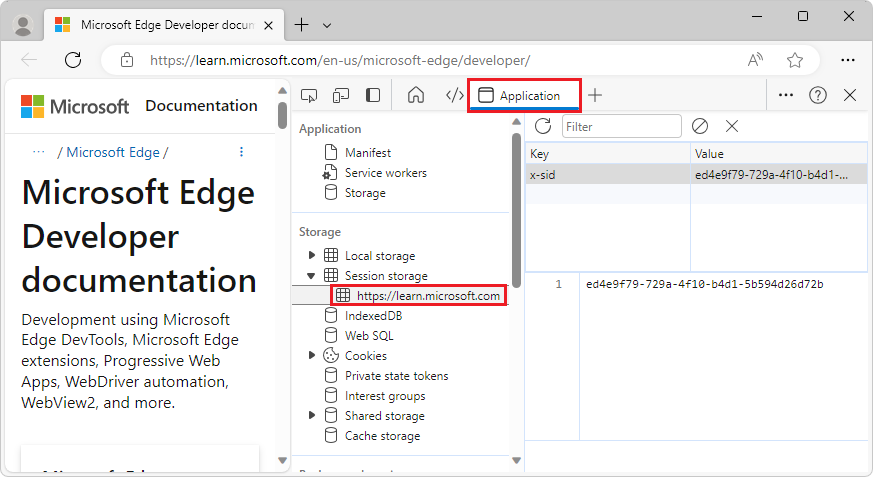
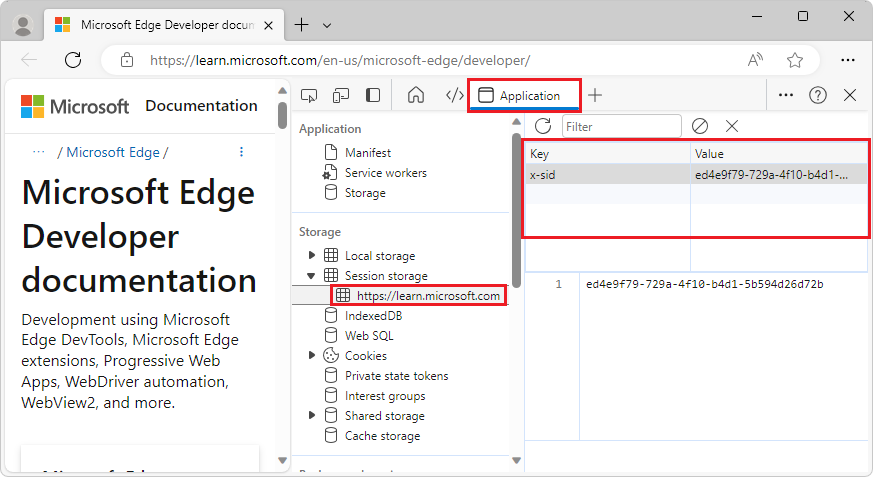
Add red box

Changed region(s): [[0.5876, 0.2642, 1.0, 0.499]]

diff --git a/microsoft-edge/devtools-guide-chromium/storage/sessionstorage.md b/microsoft-edge/devtools-guide-chromium/storage/sessionstorage.md
@@ -42,7 +42,7 @@ To view the `sessionStorage` key-value pairs of a domain:
 
    ![The sessionStorage key-value pairs](./sessionstorage-images/storage-application-storage-session-storage-domain.png)
 
-1. Click a row of the key-value table.  The value for the selected key is displayed below the key-value table:
+1. Select a row of the key-value table.  The value for the selected key is displayed below the key-value table:
 
    ![View the value of the x-sid key](./sessionstorage-images/storage-application-storage-session-storage-domain-key-value-selected.png)
 
@@ -60,7 +60,7 @@ To add a new key/value pair for session storage:
 
 1. In the **Value** field of the row, enter a value for the key.
 
-1. Press **Enter**, or click an empty area.  The value is also displayed below the key/value table:
+1. Press **Enter**, or click an empty area.  The value is then also displayed below the key/value table:
 
    ![The empty part of the table to double-click in order to create a new key-value pair](./sessionstorage-images/storage-application-storage-session-storage-domain-key-value-new.png)
 
@@ -106,7 +106,7 @@ You can run JavaScript expressions and statements in the **Console**, and the **
 
 To interact with `sessionStorage` by using the **Console**:
 
-1. In DevTools, select the **Console** tool.
+1. In DevTools, select the **Console** tool.  For example, press **Esc** to display the Quick View panel, which always includes a **Console** tab.
 
 1. If you want to access the `sessionStorage` key-value pairs of a domain other than the page you're on, use the **JavaScript contexts** menu to change the JavaScript context of the **Console**:
 
@@ -131,7 +131,7 @@ To interact with `sessionStorage` by using the **Console**:
    <· 'efgh-5678'
    ```
 
-   The **Key/Value** pair table is updated to reflect changes that you make by entering JavaScript assignment statements using the **Console**.
+   When you enter JavaScript assignment expressions by using the **Console**, the **Key/Value** pair table is updated.
 
 
 <!-- ====================================================================== -->
